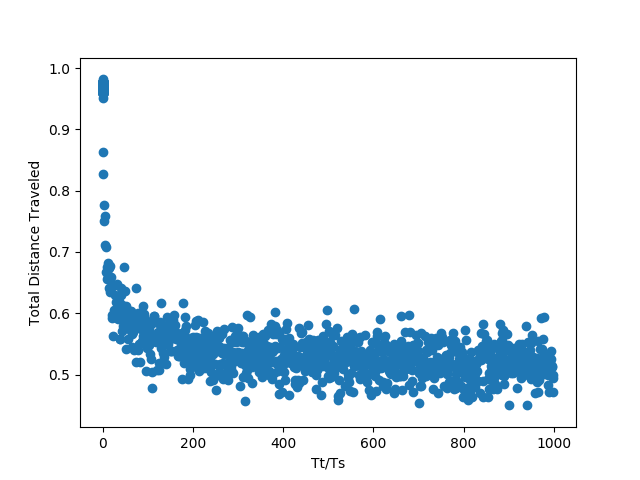
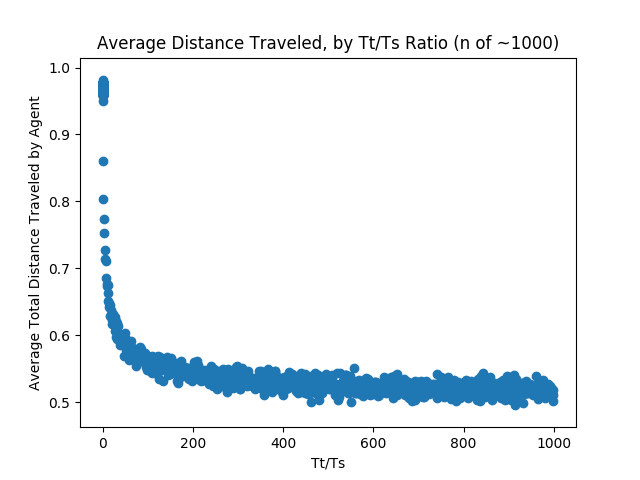
added recreation of sps plots

diff --git a/experiments/plot_policy.py b/experiments/plot_policy.py
@@ -1,19 +1,36 @@
 import plotly.express as px
 import plotly
 import pandas as pd
+import numpy as np
+from src.optimal_agent import OptimalAgent
+
+def run():
+    outfile = "results/policy_by_ts_tt_ratio.csv"
+    for Tt in [0.00001,0.00005,0.0001,0.0005,0.001,0.005,0.01,0.05,0.1,0.5] + list(range(980,1001)):
+        agt = OptimalAgent(Ts=1,Tt=1,N=2500)
+        agt.plot_policy()
+        # Put in code here to save
+
 
 def plot_policy():
     data = pd.read_csv("results/policy_by_ts_tt_ratio.csv")
     Ts = 1
     data["Tt/Ts"] = data.Tt / Ts
-    consolidated = data.iloc[1::100]
+    allowable_Tt = list(range(100)) + list(range(100,1001,50))
+    Tt_slicer = np.isin(data.Tt, allowable_Tt)
+    consolidated = data[Tt_slicer]
+
+    S_slicer = np.isin(consolidated.S, consolidated.S.unique()[::10])
+    consolidated = consolidated[S_slicer]
+
     fig = px.scatter(consolidated,
                      x="S",
                      y="fout",
                      animation_frame="Tt/Ts")
     fig.update_layout(
         xaxis_title = "Length of Hypothesis Space",
-        yaxis_title = "Policy"
+        yaxis_title = "Movement",
+        title = "Policy by Tt/Ts Ratio",
+        yaxis_range = [0,1]
     )
-    fig.show()
-    plotly.io.write_html(fig, file='policies_by_time_ratio.html')
+    plotly.io.write_html(fig, file='visualizations/policies_by_time_ratio.html')

diff --git a/experiments/recreate_lipor_plots.py b/experiments/recreate_lipor_plots.py
@@ -5,6 +5,7 @@ import pandas as pd
 import numpy as np
 import matplotlib.pyplot as plt
 
+
 def changing_tt(num_samples):
     """
         How number of samples and distance travelled change with different values of Tt
@@ -49,8 +50,24 @@ def plot_distance():
     consolidated = consolidated.reset_index()
     plt.scatter(x=consolidated.ratio, y = consolidated.total_dist)
     plt.xlabel("Tt/Ts")
-    plt.ylabel("Total Distance Traveled")
+    plt.ylabel("Average Total Distance Traveled by Agent")
+    plt.title("Average Distance Traveled, by Tt/Ts Ratio (n of ~1000)")
     plt.savefig("visualizations/time_ratio_to_dist.png")
+    plt.clf()
+
+
+def plot_num_samples():
+    data = pd.read_csv("results/uniform.csv")
+    data['ratio'] = data.Tt / data.Ts
+    consolidated = data.groupby(["Ts", "Tt"])
+    consolidated = consolidated.agg(np.mean)
+    consolidated = consolidated.reset_index()
+    plt.scatter(x=consolidated.ratio, y = consolidated.num_samples)
+    plt.xlabel("Tt/Ts")
+    plt.ylabel("Mean Number of Samples")
+    plt.title("Average Number of Samples Taken by Agent, by Tt/Ts Ratio (n of ~1000)")
+    plt.savefig("visualizations/time_ratio_to_ns.png")
+    plt.clf()
 
 
 

diff --git a/src/optimal_agent.py b/src/optimal_agent.py
@@ -94,4 +94,4 @@ class OptimalAgent(object):
 
 
 if __name__ == "__main__":
-    experiment()
+    OptimalAgent()
